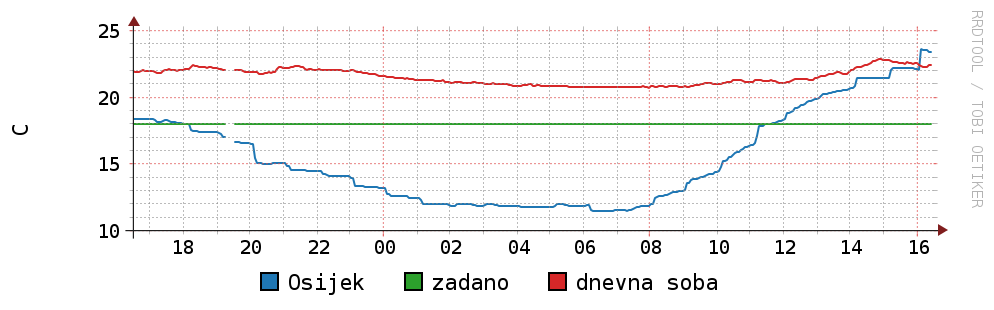
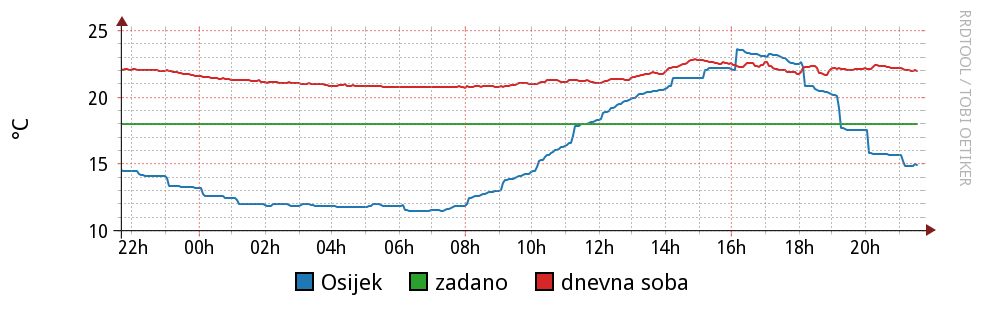
rrdtool graph for week & month; graph font: Droid Sans

diff --git a/app/rrdb-tools.js b/app/rrdb-tools.js
@@ -6,6 +6,8 @@ var app_dir = project_dir + "/app";
 var rrd_name = "heating.rrd";
 var img_dir = project_dir + "/assets-local/img";
 var img_name = "temperatures_graph.png";
+var img_name_week = "temperatures_graph_week.png";
+var img_name_month = "temperatures_graph_month.png";
 
 function execute(command, callback) {
   exec(command, function(error, stdout, stderr) {
@@ -48,7 +50,7 @@ var init = function() {
       }
     });
   }
-}
+};
 
 // Should be called only at application start.
 // Later, live values are taken directly from the app context.
@@ -105,7 +107,7 @@ var getLastTemps = function(cb) {
       }
     }
   });
-}
+};
 
 var insert = function(ts, temp_preset, temp_living, temp_osijek) {
   console.log("rrdb-tools.insert()");
@@ -116,9 +118,23 @@ var insert = function(ts, temp_preset, temp_living, temp_osijek) {
   execute(updateStr, function(out, err) {
     if (err) throw err;
   });
+};
+
+function getCurrTimeSec() {
+  var now = new Date().getTime();
+  return (parseFloat(now / 1000).toFixed(0));
+}
+
+function getWeekOldTimeSec() {
+  return (getCurrTimeSec() - (3600 * 24 * 7));
+}
+
+function getMonthOldTimeSec() {
+  return (getCurrTimeSec() - (3600 * 24 * 30));
 }
 
 var lastPaintedMillis = 0;
+
 var paint = function(cb) {
   console.log("rrdb-tools.paint()");
 
@@ -131,9 +147,8 @@ var paint = function(cb) {
     return;
   }
 
-  var graphStr = 'rrdtool graph ' + img_dir + '/' + img_name + ' ' +
-    '--end N --x-grid HOUR:1:HOUR:8:HOUR:2:0:%H ' +
-    '--vertical-label "C" --border 0 --zoom 2 --slope-mode ' +
+  var graphStrDefaults = '--font DEFAULT:0:"Droid Sans" ' +
+    '--vertical-label "°C" --border 0 --zoom 2 --slope-mode ' +
     '--color CANVAS#FFFFFF00 --color FRAME#000000FF --color BACK#FFFFFF00 ' +
     'TEXTALIGN:center ' +
     'DEF:mytemp_preset=' + app_dir + "/" + rrd_name + ':temp_preset:AVERAGE ' +
@@ -143,37 +158,49 @@ var paint = function(cb) {
     'LINE:mytemp_preset#2CA02C:"zadano" ' +
     'LINE:mytemp_living#D62728:"dnevna soba"';
 
+  // uses "RRA:AVERAGE:0.5:1:288 " + // 5 min avg., last 24 hours
+  var graphStrDay = 'rrdtool graph ' + img_dir + '/' + img_name + ' ' +
+    '--end N ' +
+    '--x-grid HOUR:1:HOUR:8:HOUR:2:0:%Hh '; // grid_lines:major_grid_lines:labels:labels_shift
 
-  execute(graphStr, function(out, err) {
+  // uses "RRA:AVERAGE:0.5:12:168 " + // 1 hour avg., last 7 days
+  var graphStrWeek = 'rrdtool graph ' + img_dir + '/' + img_name_week + ' ' +
+    '--start ' + getWeekOldTimeSec() + ' --end N ' +
+    '--x-grid HOUR:8:DAY:1:DAY:1:259200:%a ';
+
+  // uses "RRA:AVERAGE:0.5:48:315 " + // 4 hour avg., last 30 days
+  var graphStrMonth = 'rrdtool graph ' + img_dir + '/' + img_name_month + ' ' +
+    '--start ' + getMonthOldTimeSec() + ' --end N ' +
+    '--x-grid DAY:1:DAY:7:DAY:7:0:%d.%m. ';
+
+
+  execute(graphStrDay + graphStrDefaults, function(out, err) {
     if (err) throw err;
+
+    console.log("  painted DAY");
 
     // only update if actually painted
     lastPaintedMillis = currTimeMillis;
 
-    if (typeof(cb) == "function") {
-      cb(true); // updated
-    }
+    execute(graphStrWeek + graphStrDefaults, function(out, err) {
+      if (err) throw err;
+
+      console.log("  painted WEEK");
+
+      execute(graphStrMonth + graphStrDefaults, function(out, err) {
+        if (err) throw err;
+
+        console.log("  painted MONTH");
+
+        if (typeof(cb) == "function") {
+          cb(true); // updated
+        }
+      });
+    });
   });
-}
-
-var test = function(cb) {
-  console.log("rrdb-tools.test()");
-  execute("pwd", function(dir) {
-    console.log(dir);
-    if (typeof(cb) == "function") {
-      cb(dir);
-    }
-  });
-}
-
-var getImageName = function() {
-  return img_name;
-}
-
+};
 
 exports.init = init;
 exports.getLastTemps = getLastTemps;
 exports.insert = insert;
 exports.paint = paint;
-exports.getImageName = getImageName;
-exports.test = test;
